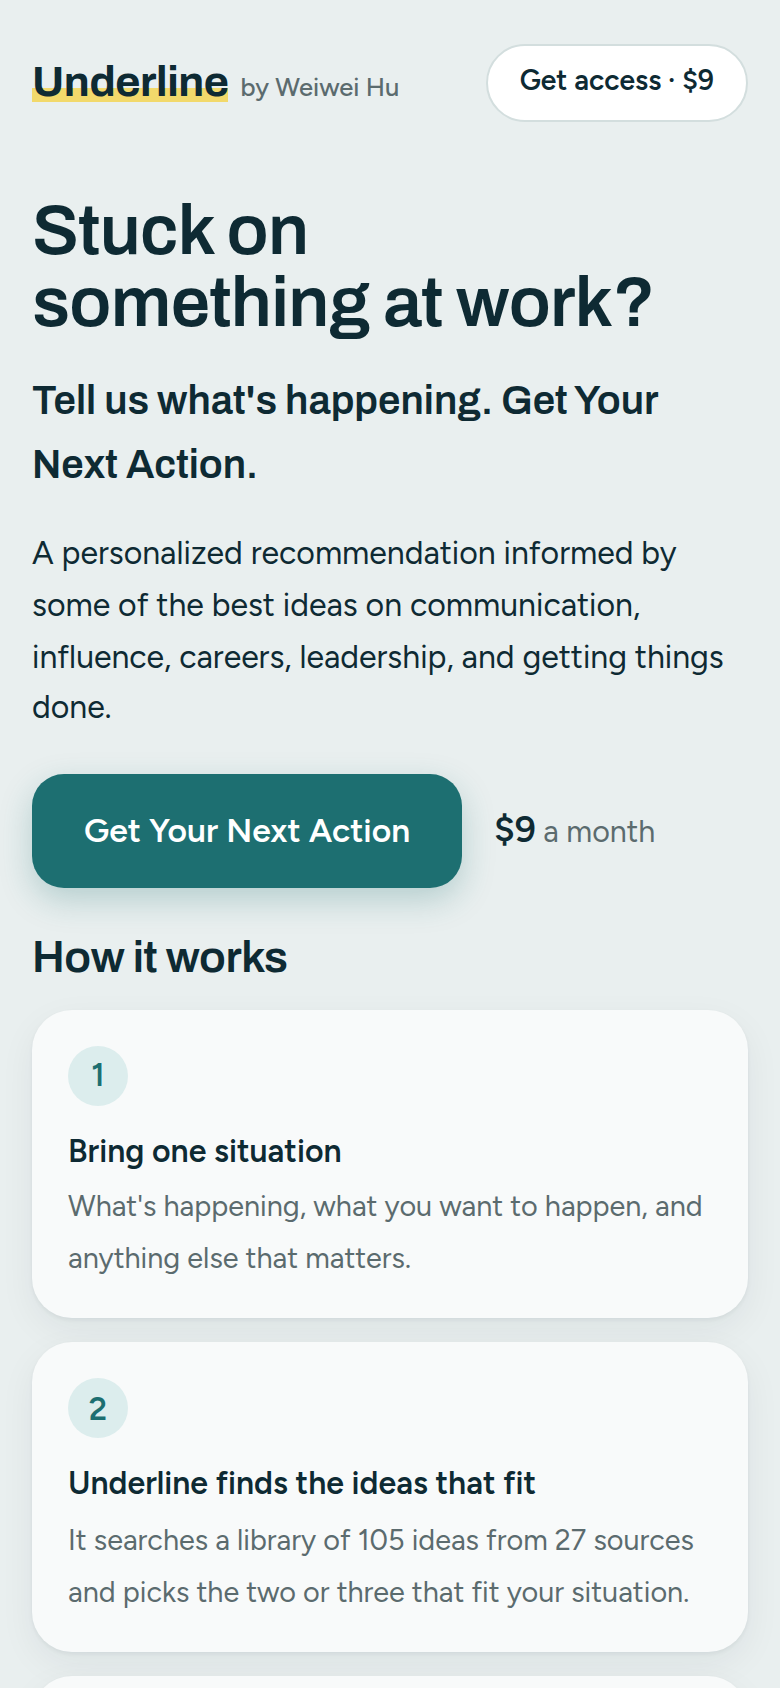
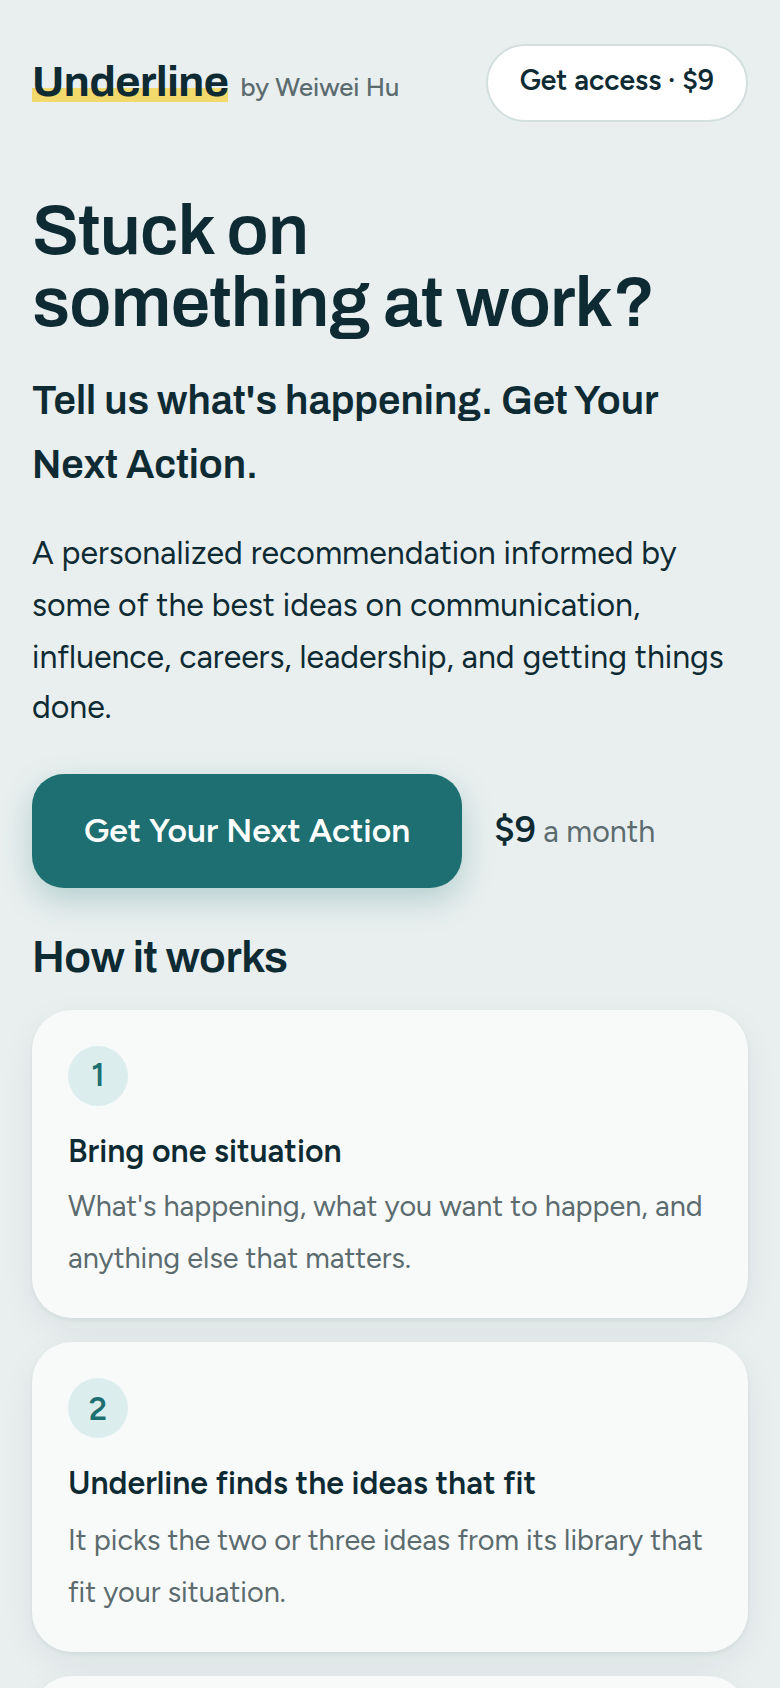
Remove the source list and source lines from the landing page

Changed region(s): [[0.0923, 0.8934, 0.8923, 0.955]]

diff --git a/index.html b/index.html
@@ -140,7 +140,7 @@ a.btn{text-decoration:none;color:var(--ink)}
     <h2 class="h2" style="margin-bottom:12px">How it works</h2>
     <ol class="steps3">
       <li><b>Bring one situation</b><span>What's happening, what you want to happen, and anything else that matters.</span></li>
-      <li><b>Underline finds the ideas that fit</b><span>It searches a library of 105 ideas from 27 sources and picks the two or three that fit your situation.</span></li>
+      <li><b>Underline finds the ideas that fit</b><span>It picks the two or three ideas from its library that fit your situation.</span></li>
       <li><b>Leave with one page</b><span>What to do, why, three steps, and the exact words to use.</span></li>
     </ol>
   </section>
@@ -151,7 +151,7 @@ a.btn{text-decoration:none;color:var(--ink)}
     <article class="answer">
       <div class="ahead"><div class="eyebrow">Your Next Action</div><h2>Present mixed Q3 results to the VP</h2></div>
       <section class="asec"><h3>What I'd do</h3><p class="do">Open with one sentence that covers both numbers and your ask, then use the rest of the 10 minutes to show the churn rise is understood and how the new headcount fixes it.</p></section>
-      <section class="asec"><h3>Why</h3><ul class="why"><li><p>Your VP cuts people off after two minutes. If the result and the ask come in the first 30 seconds, you&#x27;ve made your point even if you&#x27;re interrupted.</p><span class="src"><b>Answer first</b> · Barbara Minto, The Pyramid Principle</span></li><li><p>Beat target, churn up, what do we do, add one person: that order puts the bad news in context and leads straight to the ask.</p><span class="src"><b>Situation, Complication, Question, Answer</b> · Barbara Minto, The Pyramid Principle</span></li><li><p>&quot;Churn went from 4% to 6%&quot; is easy to shrug off. Saying how many customers or how much revenue that 2% means makes the case for headcount land.</p><span class="src"><b>Never leave data dangling</b> · Carmine Gallo, Talk Like TED</span></li></ul></section>
+      <section class="asec"><h3>Why</h3><ul class="why"><li><p>Your VP cuts people off after two minutes. If the result and the ask come in the first 30 seconds, you&#x27;ve made your point even if you&#x27;re interrupted.</p></li><li><p>Beat target, churn up, what do we do, add one person: that order puts the bad news in context and leads straight to the ask.</p></li><li><p>&quot;Churn went from 4% to 6%&quot; is easy to shrug off. Saying how many customers or how much revenue that 2% means makes the case for headcount land.</p></li></ul></section>
       <section class="asec"><h3>How to do it</h3><ol class="how"><li>Today, turn the churn rise into a number people feel, such as [X] customers or [$] a year, and write your first sentence with it.</li><li>Before Thursday, cut the deck to three sections (revenue, churn, the plan) and put the churn cause and fix on one slide.</li><li>In the first minute on Thursday, say the opening below, then ask if they want the churn detail or the plan first.</li></ol></section>
       <section class="asec"><h3>What to say</h3><div><p class="saylabel">Open with</p><p class="say">Q3 revenue beat target by 8%. Churn went up from 4% to 6%, which is about [X] customers, and we know why: [cause]. I&#x27;m asking for one more person in Q4 to fix it. That person would [task], which should bring churn back to [target] by [date]. I&#x27;ll show the three numbers behind this, then the plan.</p></div></section>
     </article>
@@ -168,11 +168,6 @@ a.btn{text-decoration:none;color:var(--ink)}
     <div class="ctarow" style="margin-top:6px"><a class="cta" href="https://buy.stripe.com/cNi14nfzP6RKfkX9F2eQM00" target="_blank" rel="noopener">Get Your Next Action</a></div>
     <p class="small">After you subscribe, I'll email you a link to get access.</p>
   </section>
-
-  <details class="lib card">
-    <summary>What Underline draws on</summary>
-    <ul class="libgrid"><li><b>5 Whys (Toyota Production System, Taiichi Ohno)</b></li><li><b>AIDA model (E. St. Elmo Lewis)</b></li><li><b>Likeable Badass</b> · Alison Fragale</li><li><b>Amazon&#x27;s six-page memo practice</b></li><li><b>Amazon&#x27;s two-pizza team practice</b></li><li><b>High Output Management</b> · Andy Grove</li><li><b>Automate Your Busywork</b> · Aytekin Tank</li><li><b>The Pyramid Principle</b> · Barbara Minto</li><li><b>Talk Like TED</b> · Carmine Gallo</li><li><b>Getting Things Done</b> · David Allen</li><li><b>Eisenhower matrix</b></li><li><b>Meeting Design</b> · Kevin M. Hoffman</li><li><b>Own Your Career</b> · Michela Allocca</li><li><b>Pitch Anything</b> · Oren Klaff</li><li><b>The Practice of Management</b> · Peter Drucker</li><li><b>The Fifth Discipline</b> · Peter Senge</li><li><b>RACI matrix (PMBOK Guide)</b></li><li><b>Principles</b> · Ray Dalio</li><li><b>SMART goals (George T. Doran)</b></li><li><b>STAR method</b></li><li><b>Asserting Yourself</b> · Sharon and Gordon Bower</li><li><b>U.S. Army After Action Review</b></li><li><b>W. Edwards Deming (PDCA cycle)</b></li><li><b>&quot;Management Time: Who&#x27;s Got the Monkey?&quot; (Harvard Business Review)</b> · William Oncken Jr. and Donald Wass</li><li><b>13 frameworks (SCUBA, CAR, ACE)</b> · Weiwei Hu</li><li><b>AI Management Toolkit</b> · Weiwei Hu</li><li><b>Workplace SOPs</b> · Weiwei Hu</li></ul>
-  </details>
 
   <footer>
     <span>© 2026 Weiwei Hu. All rights reserved.</span>

diff --git a/README.md b/README.md
@@ -7,7 +7,7 @@ Bring one situation. Leave with what to do next. By Weiwei Hu.
 Describe a work situation in a short form. Underline picks the ideas from its library that fit and gives you one page, Your Next Action:
 
 - **What I'd do:** one clear recommendation
-- **Why:** 2 to 3 reasons, each tied to an idea and its source
+- **Why:** 2 to 3 reasons that fit your situation
 - **How to do it:** 3 concrete steps
 - **What to say:** the exact words, when the situation involves talking to someone
 
